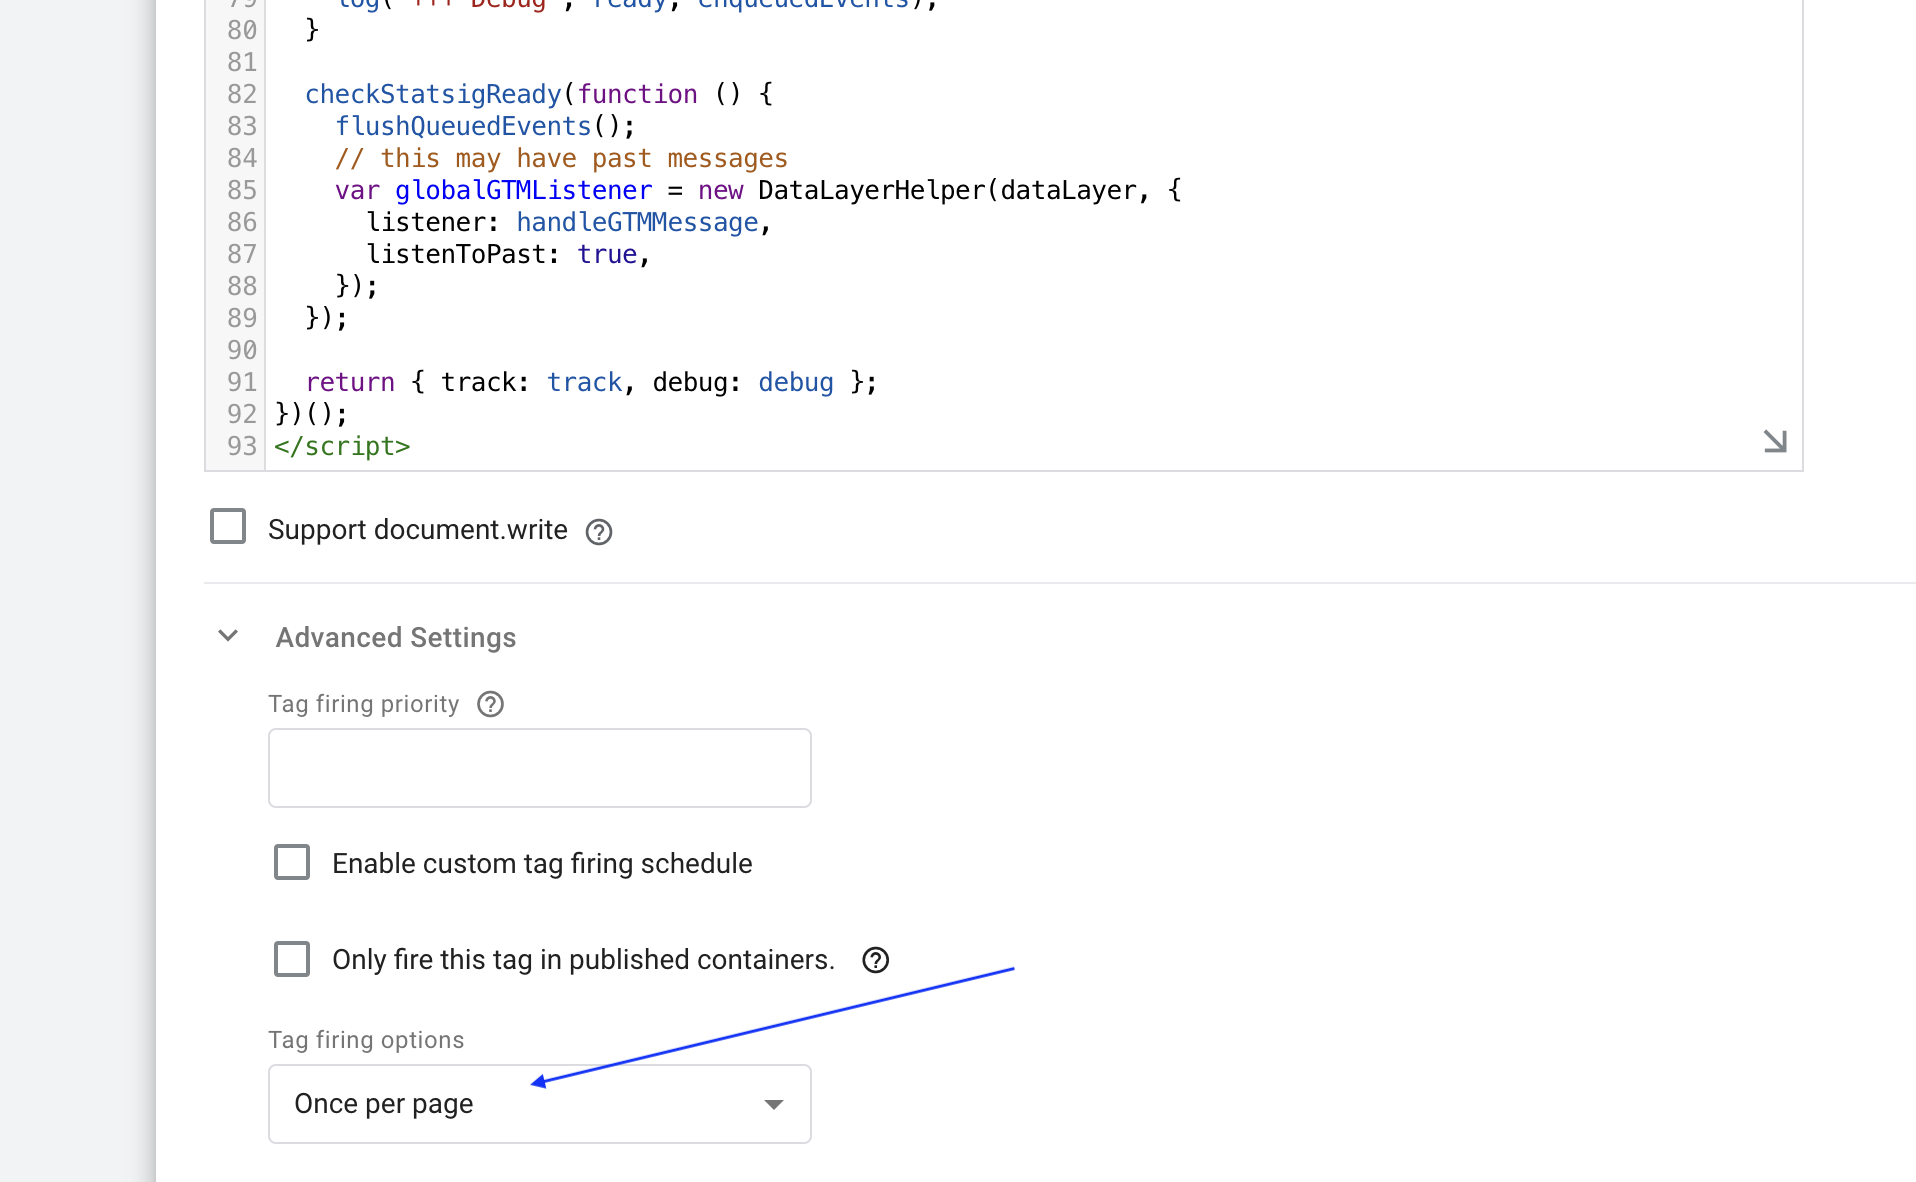
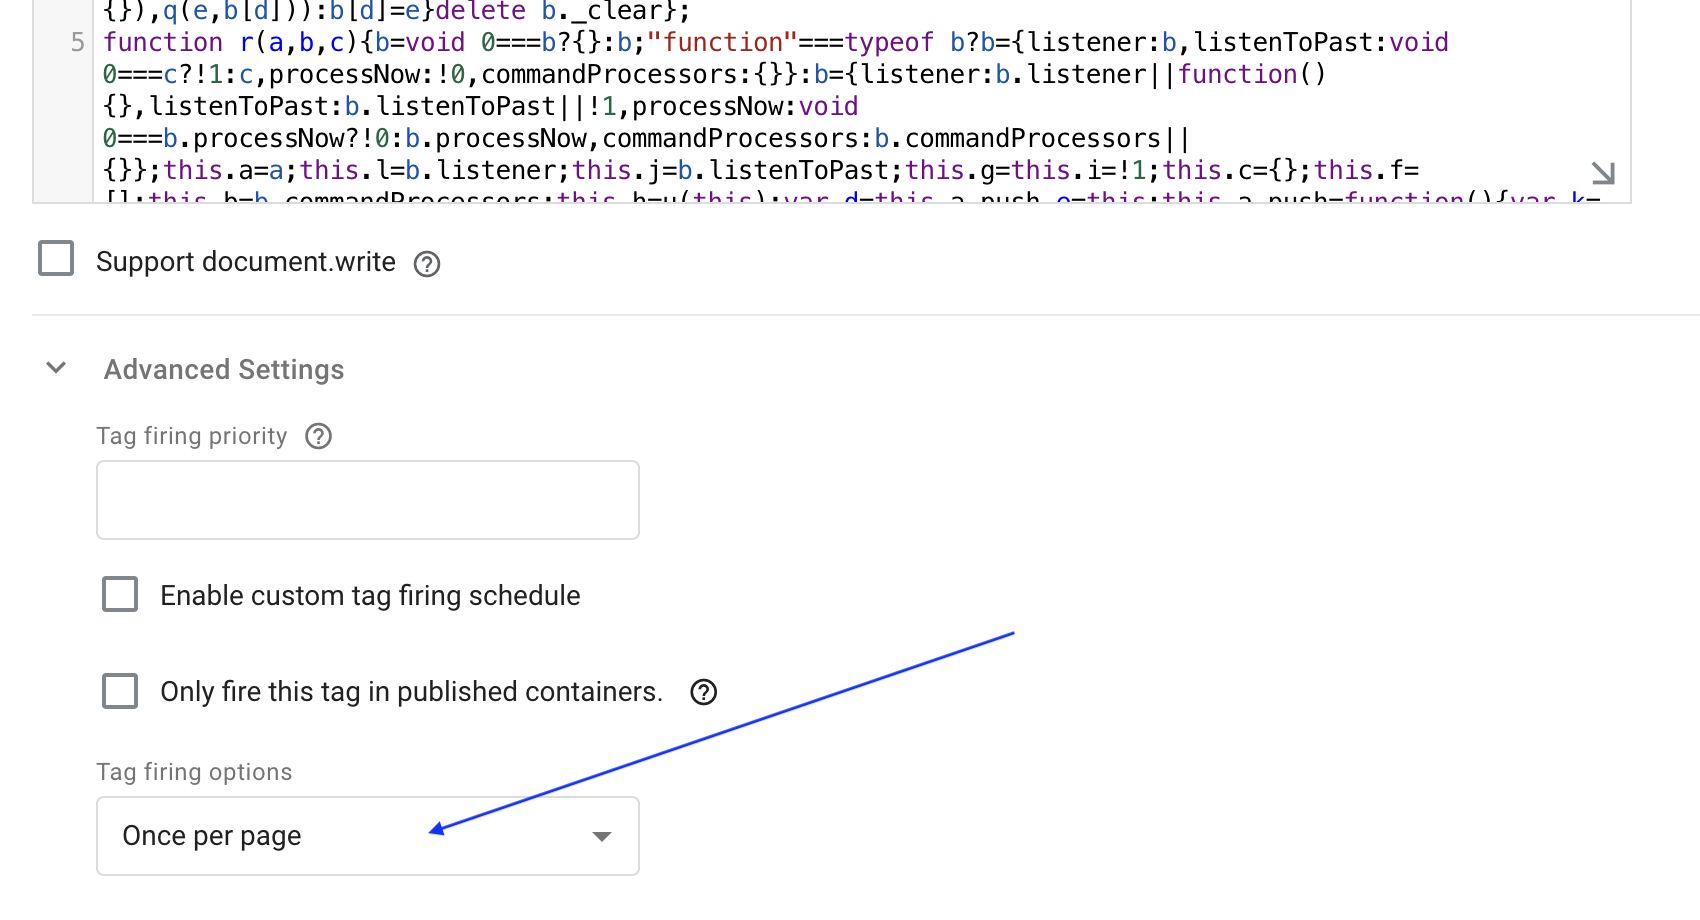
GTM integration!

diff --git a/sidebars.js b/sidebars.js
@@ -569,6 +569,7 @@ module.exports = {
             "integrations/github_code_references",
             "integrations/slack",
             "integrations/openai",
+            "integrations/gtm",
             {
               type: "category",
               label: "Terraform",

diff --git a/docs/integrations/gtm.md b/docs/integrations/gtm.md
@@ -1,0 +1,97 @@
+---
+title: Google Tag Manager (GTM) 
+---
+
+## Overview
+
+This integration will allow customers using Statsig on the web to leverage their existing Google Tag manager configuration to track events to Statsig. This saves customers from having to retag their web properties with calls specific to Statsig's SDK. This integration uses a global listener to consume all GTM triggers and dispatch a corresponding event back to Statsig.
+
+![image](/img/gtm-logstream.png)
+_(statsig logstream showing gtm events flowing in)_
+
+## Setup
+
+### Step 1: Broadcast Statsig client readiness to GTM
+The tracking code within GTM will need to know when the Statsig client is ready to use for tracking. To do so, you'll need to broadcast a window-level event and pass the statsig instance for the GTM tag code to use. In your initialize call, implement the `initCompletionCallback` callback as follows:
+
+```js
+await statsig.initialize('<CLIENT-SDK-KEY>', '<USER-OBJECT>', {
+  initCompletionCallback: function (duration, success, message) {
+    window.dispatchEvent(new CustomEvent("statsig:ready", {
+      detail: { statsig: statsig }
+    }));
+  }
+}); 
+```
+
+### Step 2: Create new tag 
+![image](/img/gtm-create-tag.png)
+
+### Step 3: Choose tag type
+Choose "Custom HTML" for tag type, and paste [this GTM code](#gtm-code) (including script tag)
+
+![image](/img/gtm-tag-configuration.png)
+
+### Step 4: Adjust fire options
+Under Advanced Settings under "Tag Firing options", select "Once per page"
+
+![image](/img/gtm-create-tag-options.png)
+
+### Step 5: Set Tag Trigger
+Below the "Tag Configuration" section, set the Trigger to "Initialization - All Pages" Option. 
+
+![image](/img/gtm-tag-trigger.png)
+
+### Step 6: Save tag and test
+After saving the tag, and publishing your updated GTM tag, tracking will be done automatically without any additional configuration.
+To debug the integration, you can set a local storage entry `debug_ss_gtm` with any value on your webpage. Now, you'll console log statements for each tracking call being dispatched to Statsig. You can also inspect your browser's network traffic to see events being tracked.
+
+### GTM Code
+
+```html
+<script type="text/javascript">
+/* dataLayer helper */
+(function(){
+var f=/\[object (Boolean|Number|String|Function|Array|Date|RegExp|Arguments)\]/;function g(a){return null==a?String(a):(a=f.exec(Object.prototype.toString.call(Object(a))))?a[1].toLowerCase():"object"}function m(a,b){return Object.prototype.hasOwnProperty.call(Object(a),b)}function n(a){if(!a||"object"!=g(a)||a.nodeType||a==a.window)return!1;try{if(a.constructor&&!m(a,"constructor")&&!m(a.constructor.prototype,"isPrototypeOf"))return!1}catch(c){return!1}for(var b in a);return void 0===b||m(a,b)};function p(a,b){var c={},d=c;a=a.split(".");for(var e=0;e<a.length-1;e++)d=d[a[e]]={};d[a[a.length-1]]=b;return c}function q(a,b){var c=!a._clear,d;for(d in a)if(m(a,d)){var e=a[d];"array"===g(e)&&c?("array"===g(b[d])||(b[d]=[]),q(e,b[d])):n(e)&&c?(n(b[d])||(b[d]={}),q(e,b[d])):b[d]=e}delete b._clear};
+function r(a,b,c){b=void 0===b?{}:b;"function"===typeof b?b={listener:b,listenToPast:void 0===c?!1:c,processNow:!0,commandProcessors:{}}:b={listener:b.listener||function(){},listenToPast:b.listenToPast||!1,processNow:void 0===b.processNow?!0:b.processNow,commandProcessors:b.commandProcessors||{}};this.a=a;this.l=b.listener;this.j=b.listenToPast;this.g=this.i=!1;this.c={};this.f=[];this.b=b.commandProcessors;this.h=u(this);var d=this.a.push,e=this;this.a.push=function(){var k=[].slice.call(arguments,
+0),l=d.apply(e.a,k);v(e,k);return l};b.processNow&&this.process()}r.prototype.process=function(){this.registerProcessor("set",function(){var c={};1===arguments.length&&"object"===g(arguments[0])?c=arguments[0]:2===arguments.length&&"string"===g(arguments[0])&&(c=p(arguments[0],arguments[1]));return c});this.i=!0;for(var a=this.a.length,b=0;b<a;b++)v(this,[this.a[b]],!this.j)};r.prototype.get=function(a){var b=this.c;a=a.split(".");for(var c=0;c<a.length;c++){if(void 0===b[a[c]])return;b=b[a[c]]}return b};
+r.prototype.flatten=function(){this.a.splice(0,this.a.length);this.a[0]={};q(this.c,this.a[0])};r.prototype.registerProcessor=function(a,b){a in this.b||(this.b[a]=[]);this.b[a].push(b)};
+function v(a,b,c){c=void 0===c?!1:c;if(a.i&&(a.f.push.apply(a.f,b),!a.g))for(;0<a.f.length;){b=a.f.shift();if("array"===g(b))a:{var d=a.c;g(b[0]);for(var e=b[0].split("."),k=e.pop(),l=b.slice(1),h=0;h<e.length;h++){if(void 0===d[e[h]])break a;d=d[e[h]]}try{d[k].apply(d,l)}catch(w){}}else if("arguments"===g(b)){e=a;k=[];l=b[0];if(e.b[l])for(d=e.b[l].length,h=0;h<d;h++)k.push(e.b[l][h].apply(e.h,[].slice.call(b,1)));a.f.push.apply(a.f,k)}else if("function"==typeof b)try{b.call(a.h)}catch(w){}else if(n(b))for(var t in b)q(p(t,
+b[t]),a.c);else continue;c||(a.g=!0,a.l(a.c,b),a.g=!1)}}r.prototype.registerProcessor=r.prototype.registerProcessor;r.prototype.flatten=r.prototype.flatten;r.prototype.get=r.prototype.get;r.prototype.process=r.prototype.process;window.DataLayerHelper=r;function u(a){return{set:function(b,c){q(p(b,c),a.c)},get:function(b){return a.get(b)}}};})(); 
+
+window.StatsigLogger = (function () {
+
+  var statsigInstance;
+  var log = function () {
+    if (typeof localStorage !== 'undefined' && typeof console !== 'undefined' && localStorage.getItem('debug_ss_gtm')) {
+      console.log.apply(console, arguments);
+    }
+  };
+
+  var handleGTMMessage = function (model, message) {
+    log('+++ handleGTMMessage');
+    if (typeof message === 'object' && typeof message.event === 'string') {      
+      var metadata = {};
+      for (var prop in message) {
+        if (prop.includes('gtm.') && !!message[prop] && (typeof message[prop] === 'number' || typeof message[prop] === 'boolean' || typeof message[prop] === 'string')) {
+          metadata[prop] = message[prop];
+        }
+      }
+      log('\t', message.event, message.conversionValue || null, metadata);
+      statsigInstance.logEvent(message.event, message.conversionValue || null, metadata);
+    }
+  }
+
+  window.addEventListener('statsig:ready', function(evt) {
+    log('+++ Statsig:ready');
+    statsigInstance = evt.detail.statsig;
+    // this may have past messages that haven't yet been handled
+    var globalGTMListener = new DataLayerHelper(dataLayer, {
+      listener: handleGTMMessage,
+      listenToPast: true,
+    });    
+  });  
+
+})();  
+</script>
+```

diff --git a/docs/integrations/introduction.md b/docs/integrations/introduction.md
@@ -21,6 +21,7 @@ Forward any events logged via Statsig APIs or SDKs to the following providers:
 - mParticle
 - RudderStack
 - Webhook
+- Google Tag Manager (GTM)
 
 ### Changelog
 Update the following places when Feature Gates/Experiments/Dynamic Configs change:
